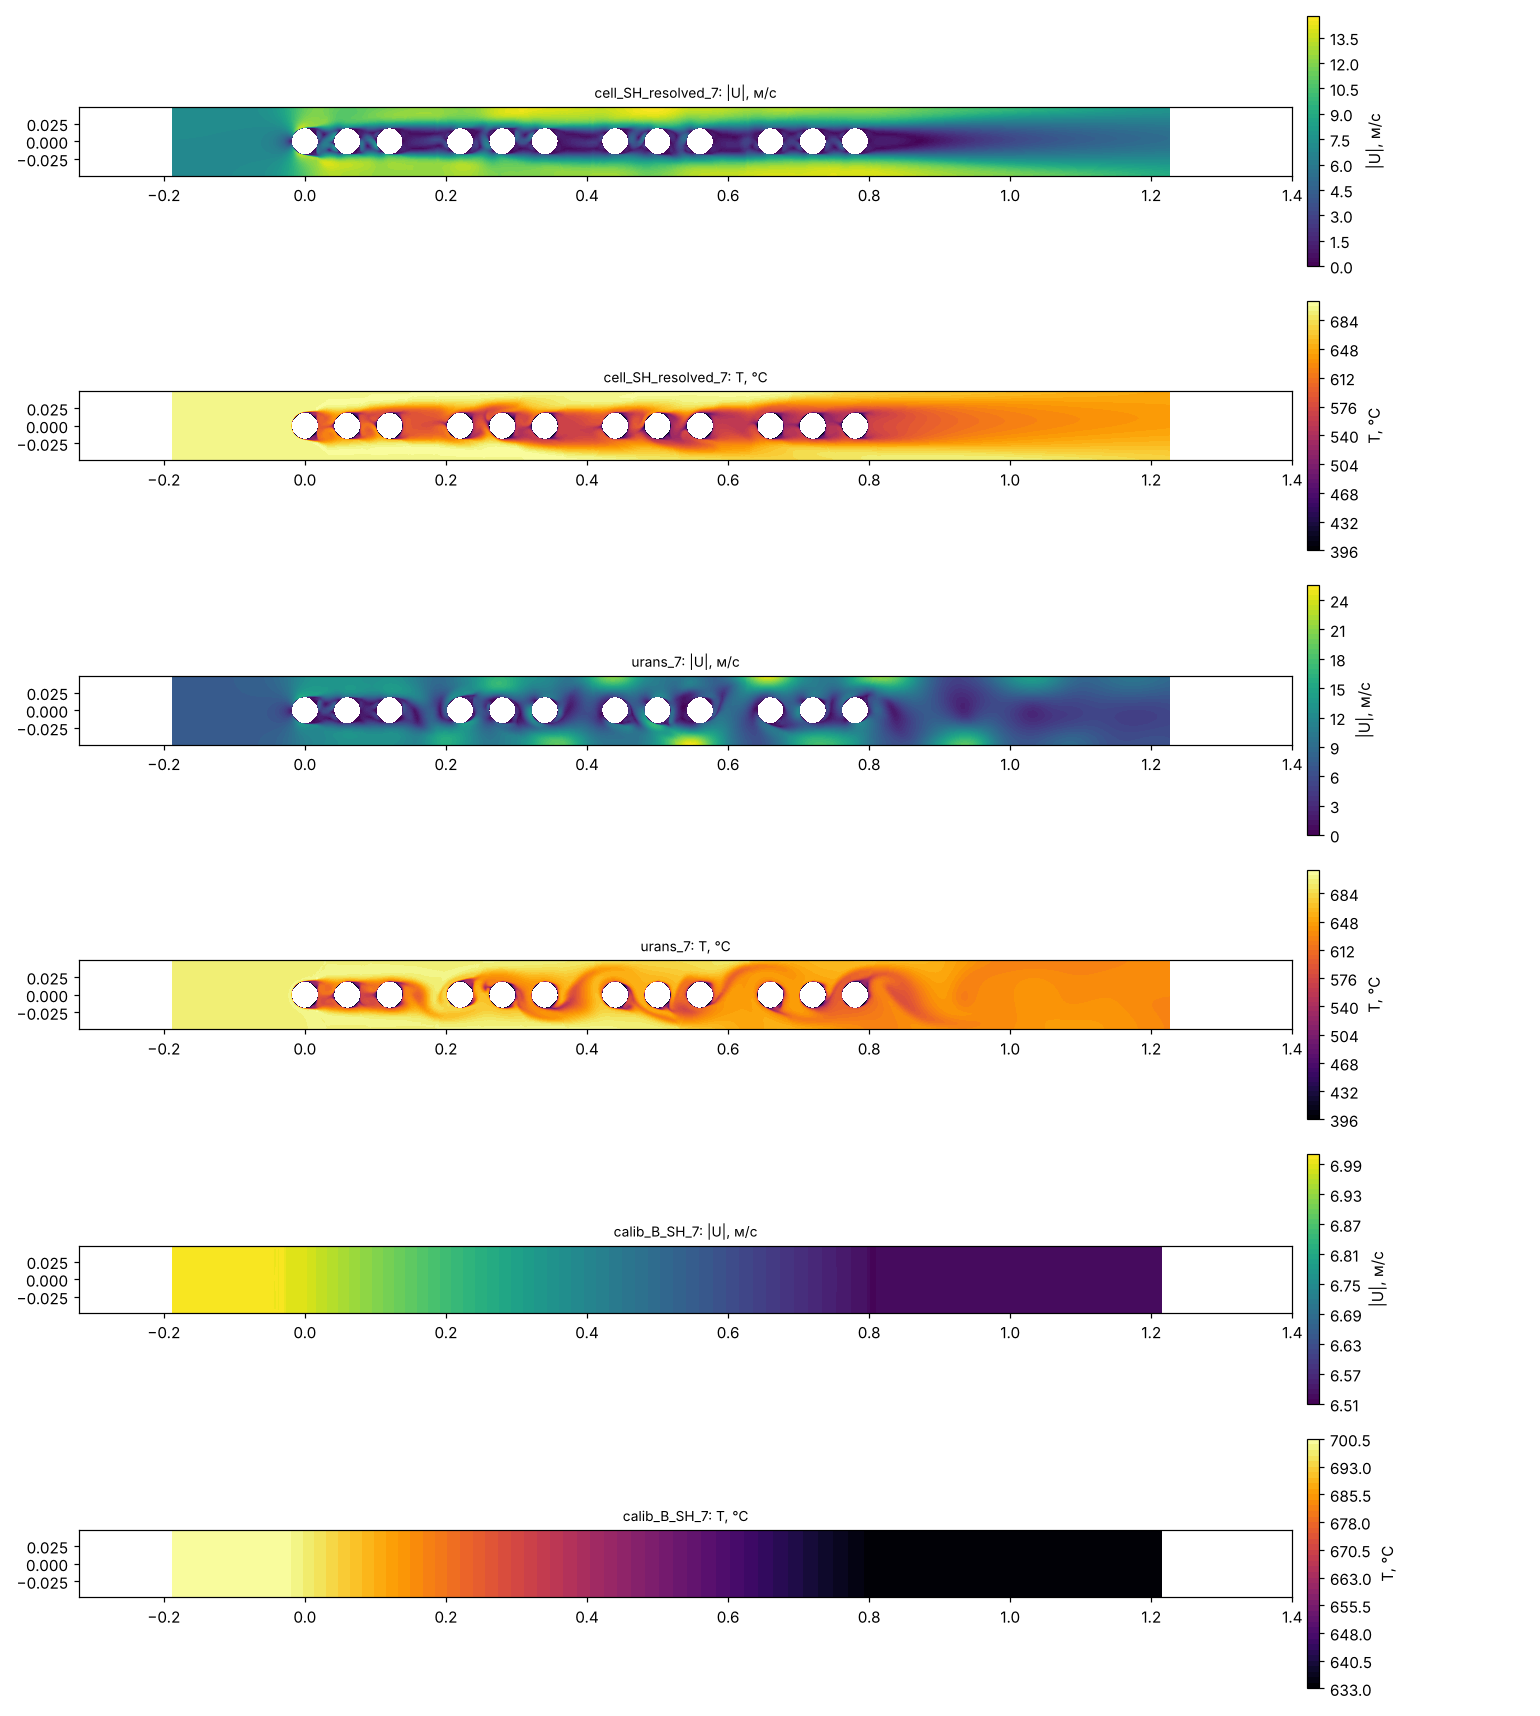
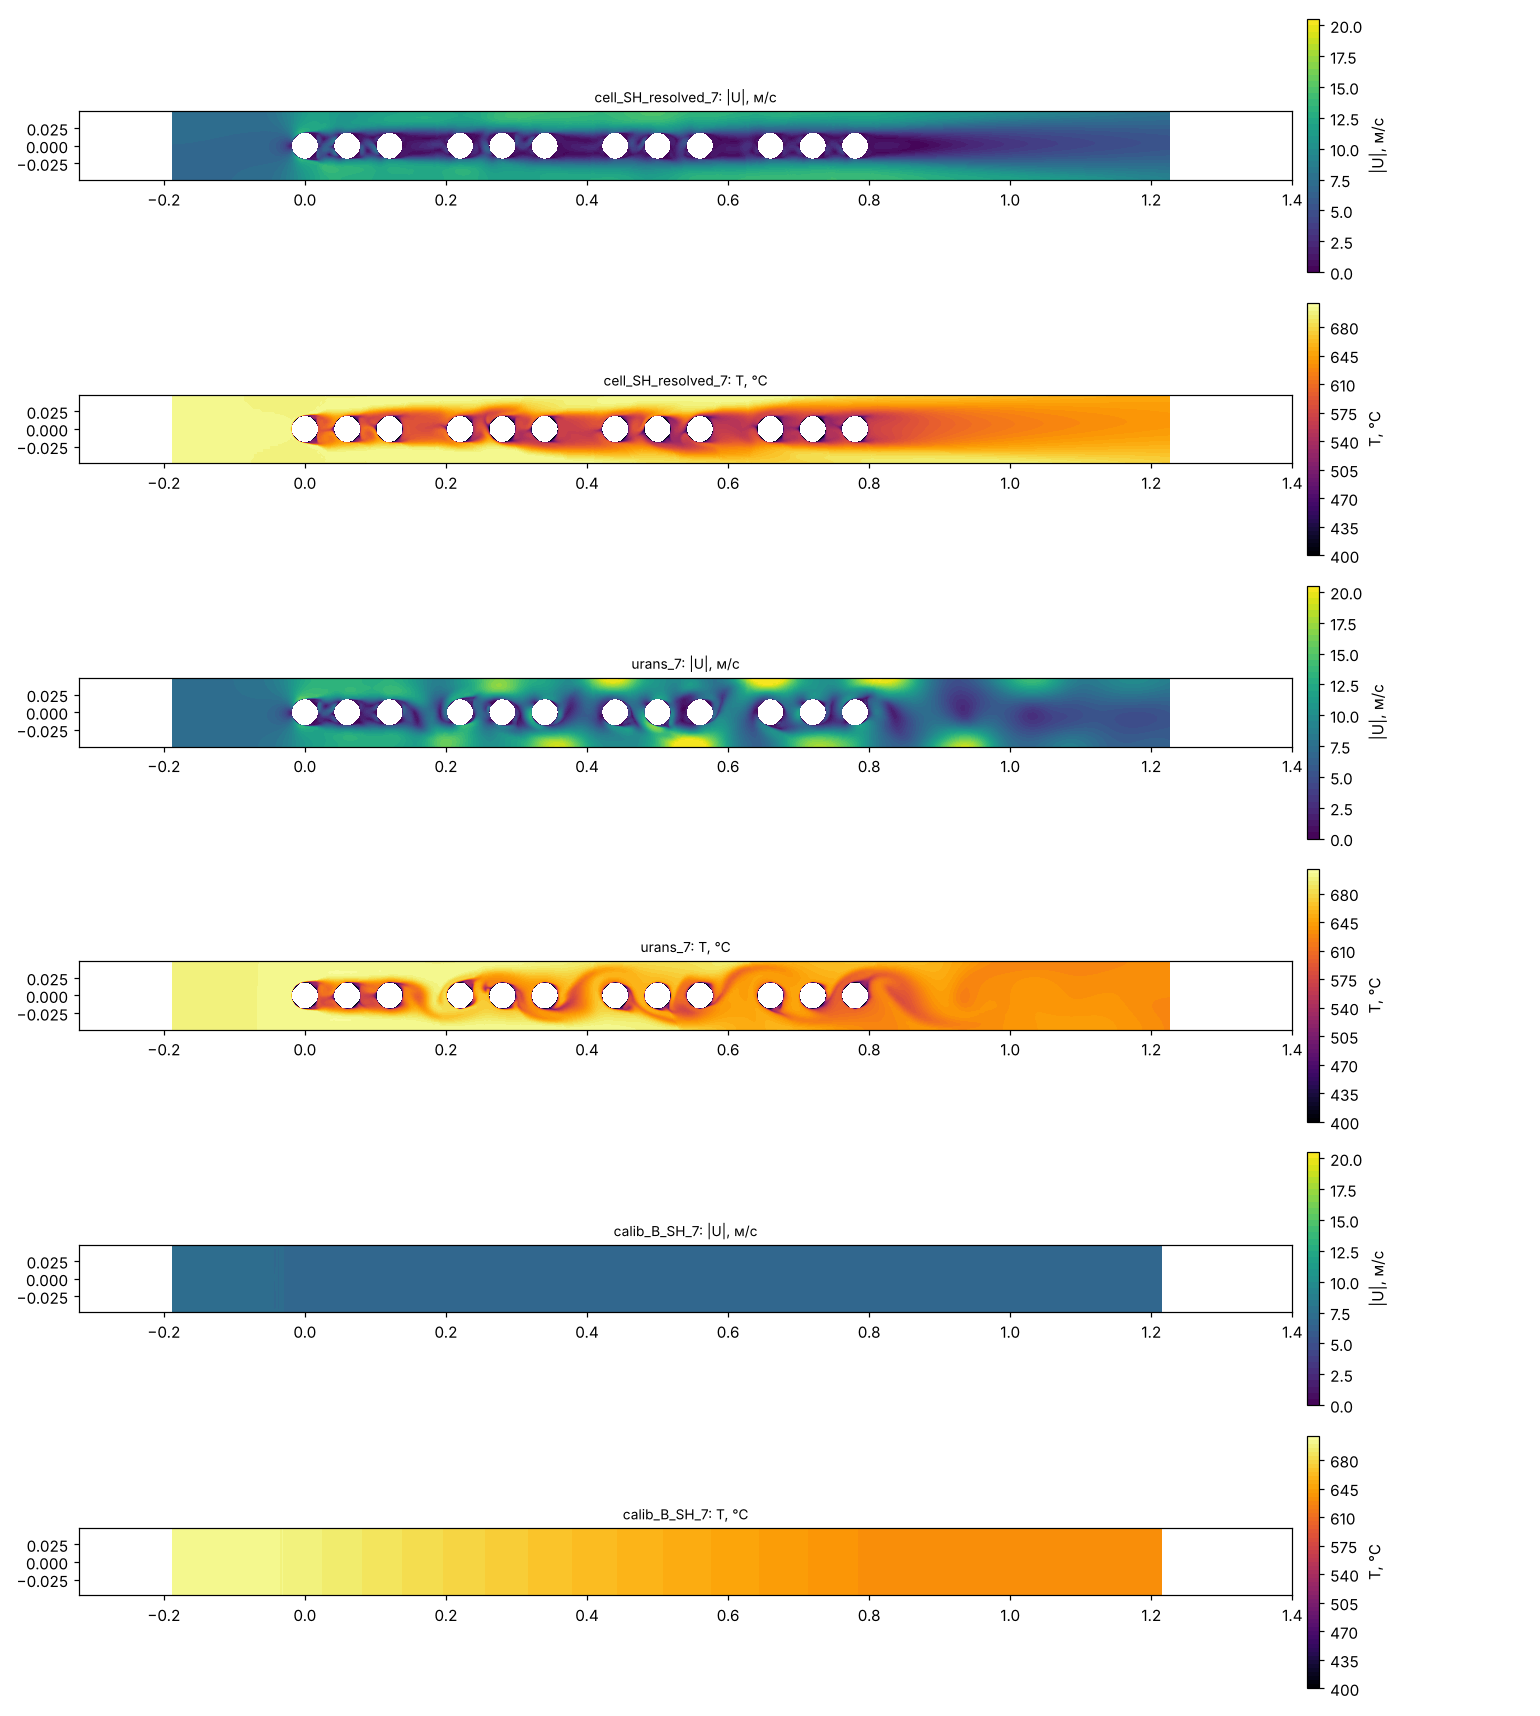
Cell field plots with common colour scales
Claude-Session: https://claude.ai/code/session_019Zg1MWm7vEL17LNQNZWW2q

diff --git a/model/plot_cell.py b/model/plot_cell.py
@@ -31,6 +31,9 @@ def latest(case):
     return max(ts, key=lambda p: float(p.name))
 
 
+# одинаковые шкалы для всех картинок
+U_LEV = np.linspace(0, 20.5, 42)
+T_LEV = np.linspace(400, 710, 63)
 out = sys.argv[1]
 cases = sys.argv[2:]
 fig, axes = plt.subplots(2 * len(cases), 1, figsize=(14, 2.6 * 2 * len(cases)))
@@ -45,10 +48,10 @@ for i, c in enumerate(cases):
     xt, yt = x[tri.triangles], y[tri.triangles]
     edge = np.max(np.hypot(xt - np.roll(xt, 1, 1), yt - np.roll(yt, 1, 1)), axis=1)
     tri.set_mask(edge > 0.012)
-    for j, (f, lab, cm) in enumerate(((np.linalg.norm(U, axis=1), "|U|, м/с", "viridis"),
-                                       (T, "T, °C", "inferno"))):
+    for j, (f, lab, cm, lv) in enumerate(((np.linalg.norm(U, axis=1), "|U|, м/с", "viridis", U_LEV),
+                                           (T, "T, °C", "inferno", T_LEV))):
         ax = axes[2 * i + j]
-        cs = ax.tricontourf(tri, f, 60, cmap=cm)
+        cs = ax.tricontourf(tri, np.clip(f, lv[0], lv[-2]), lv, cmap=cm)
         fig.colorbar(cs, ax=ax, label=lab, pad=0.01)
         ax.set_aspect("equal")
         ax.set_xlim(x.min(), min(x.max(), 1.4))
